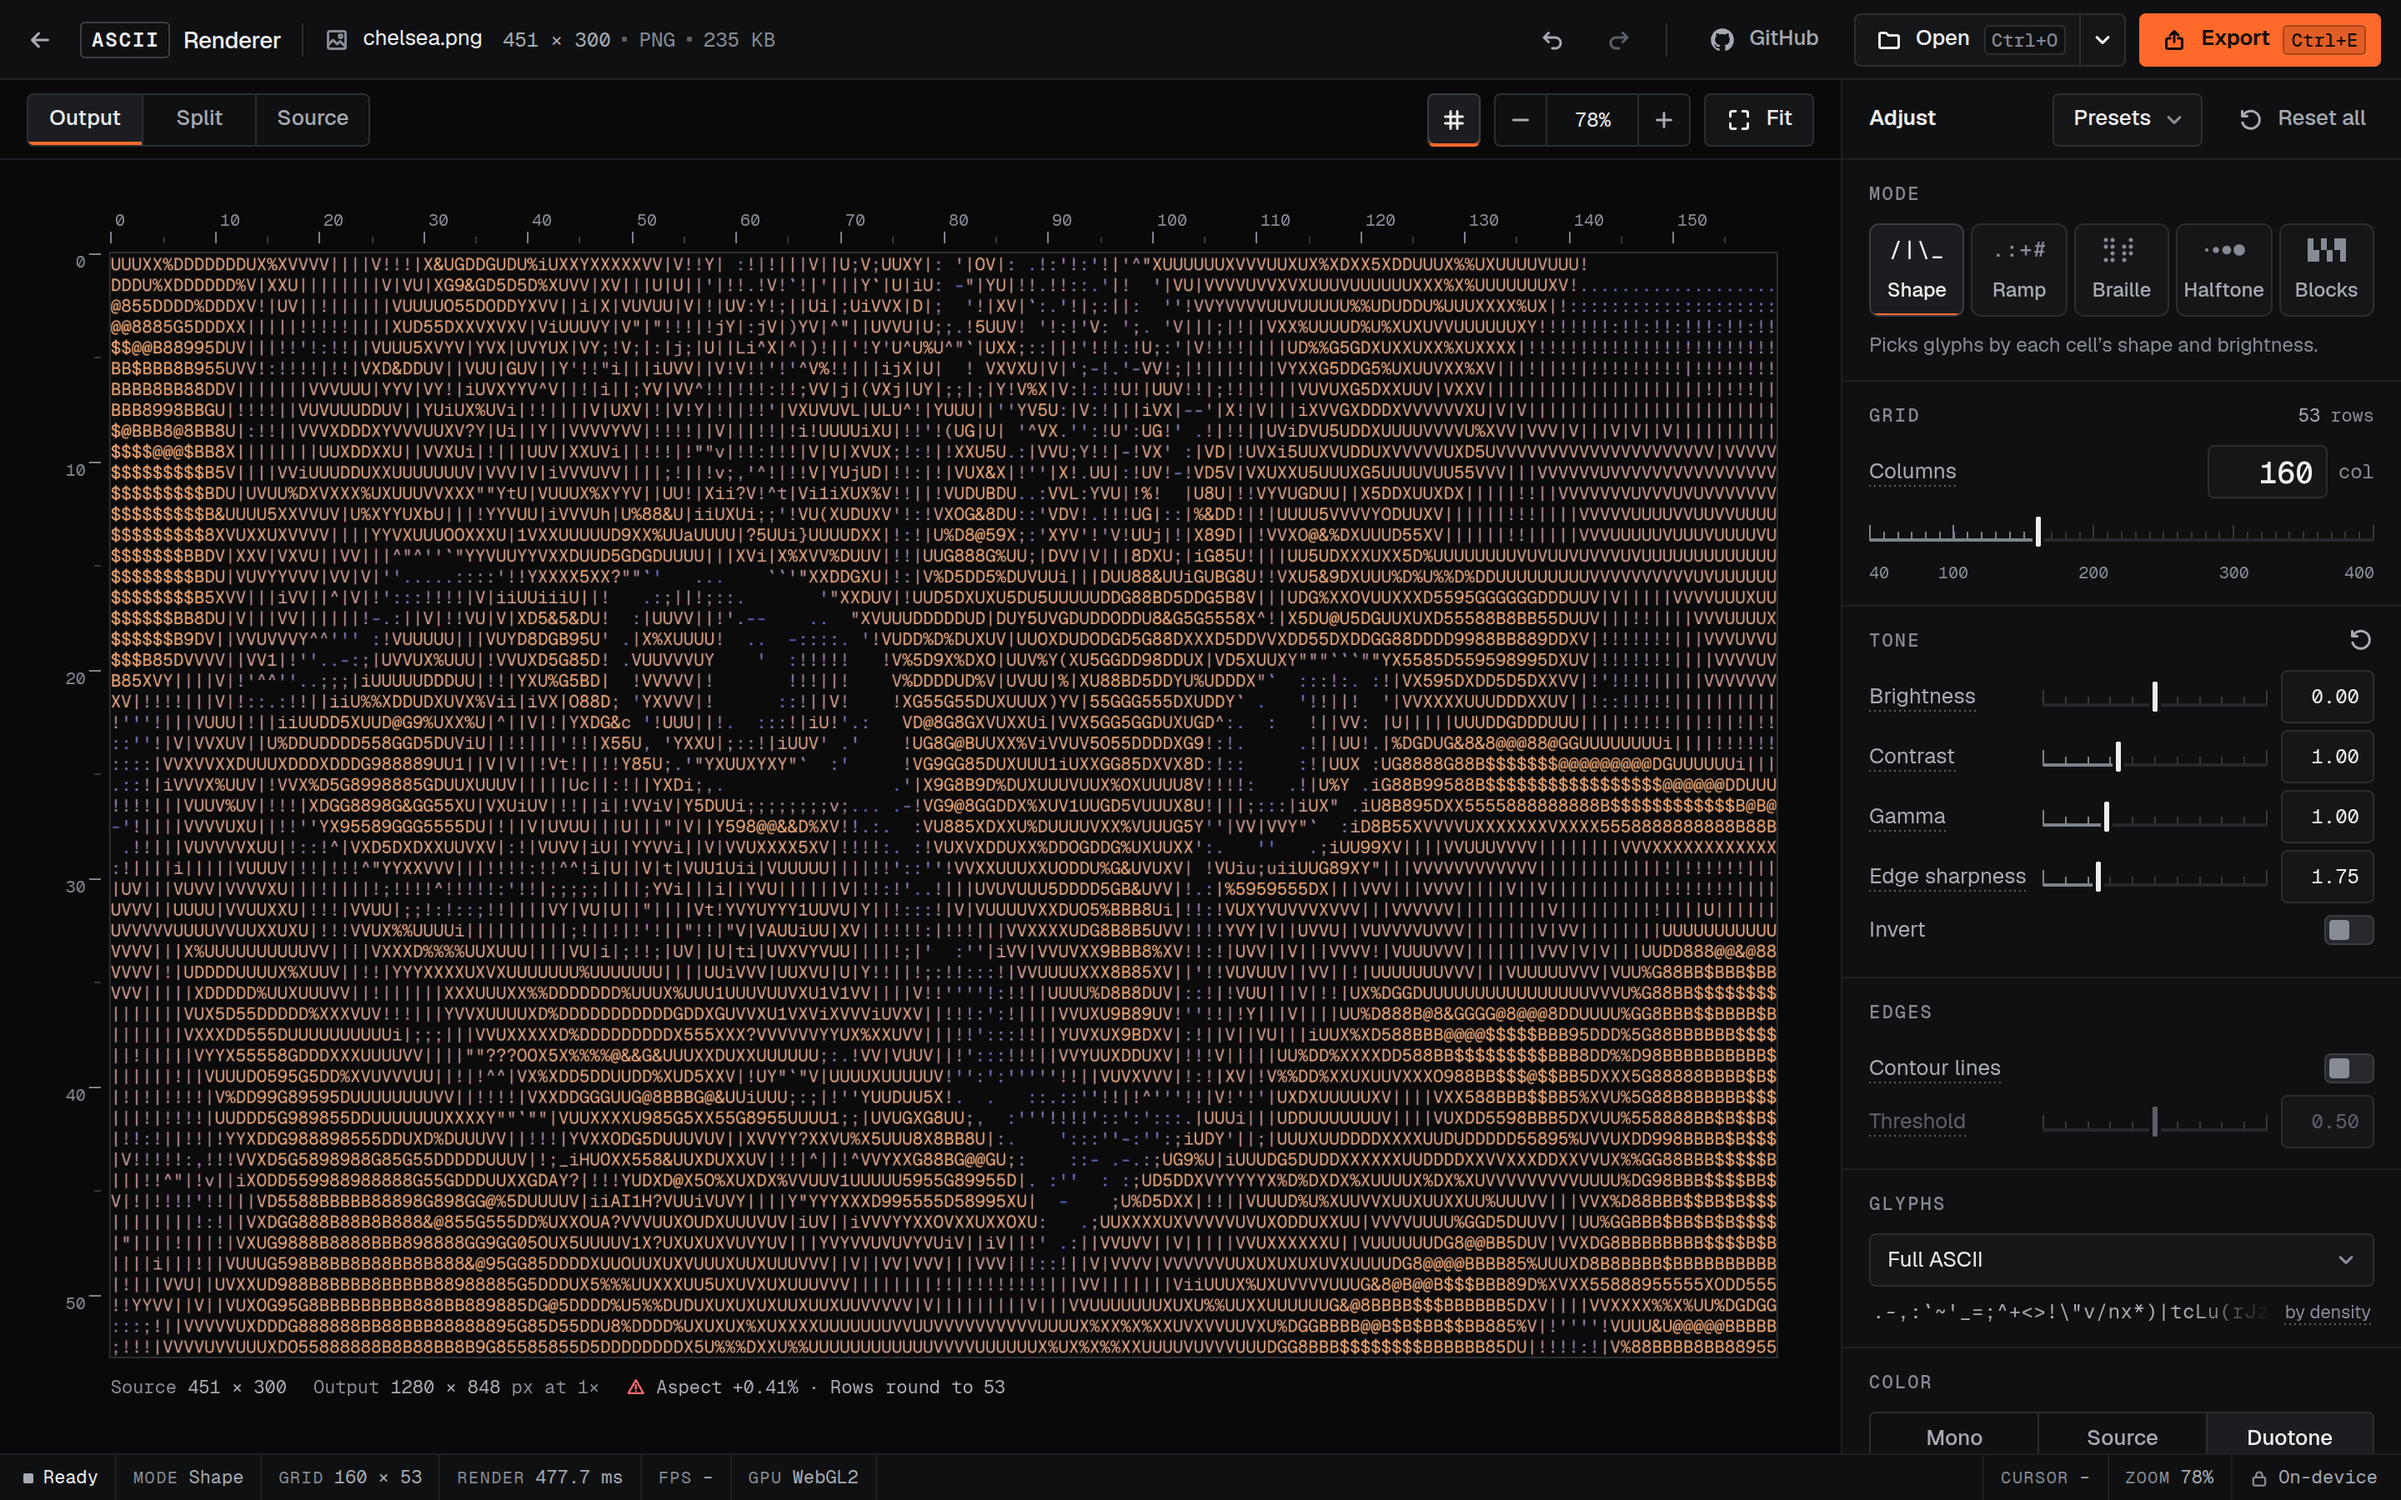
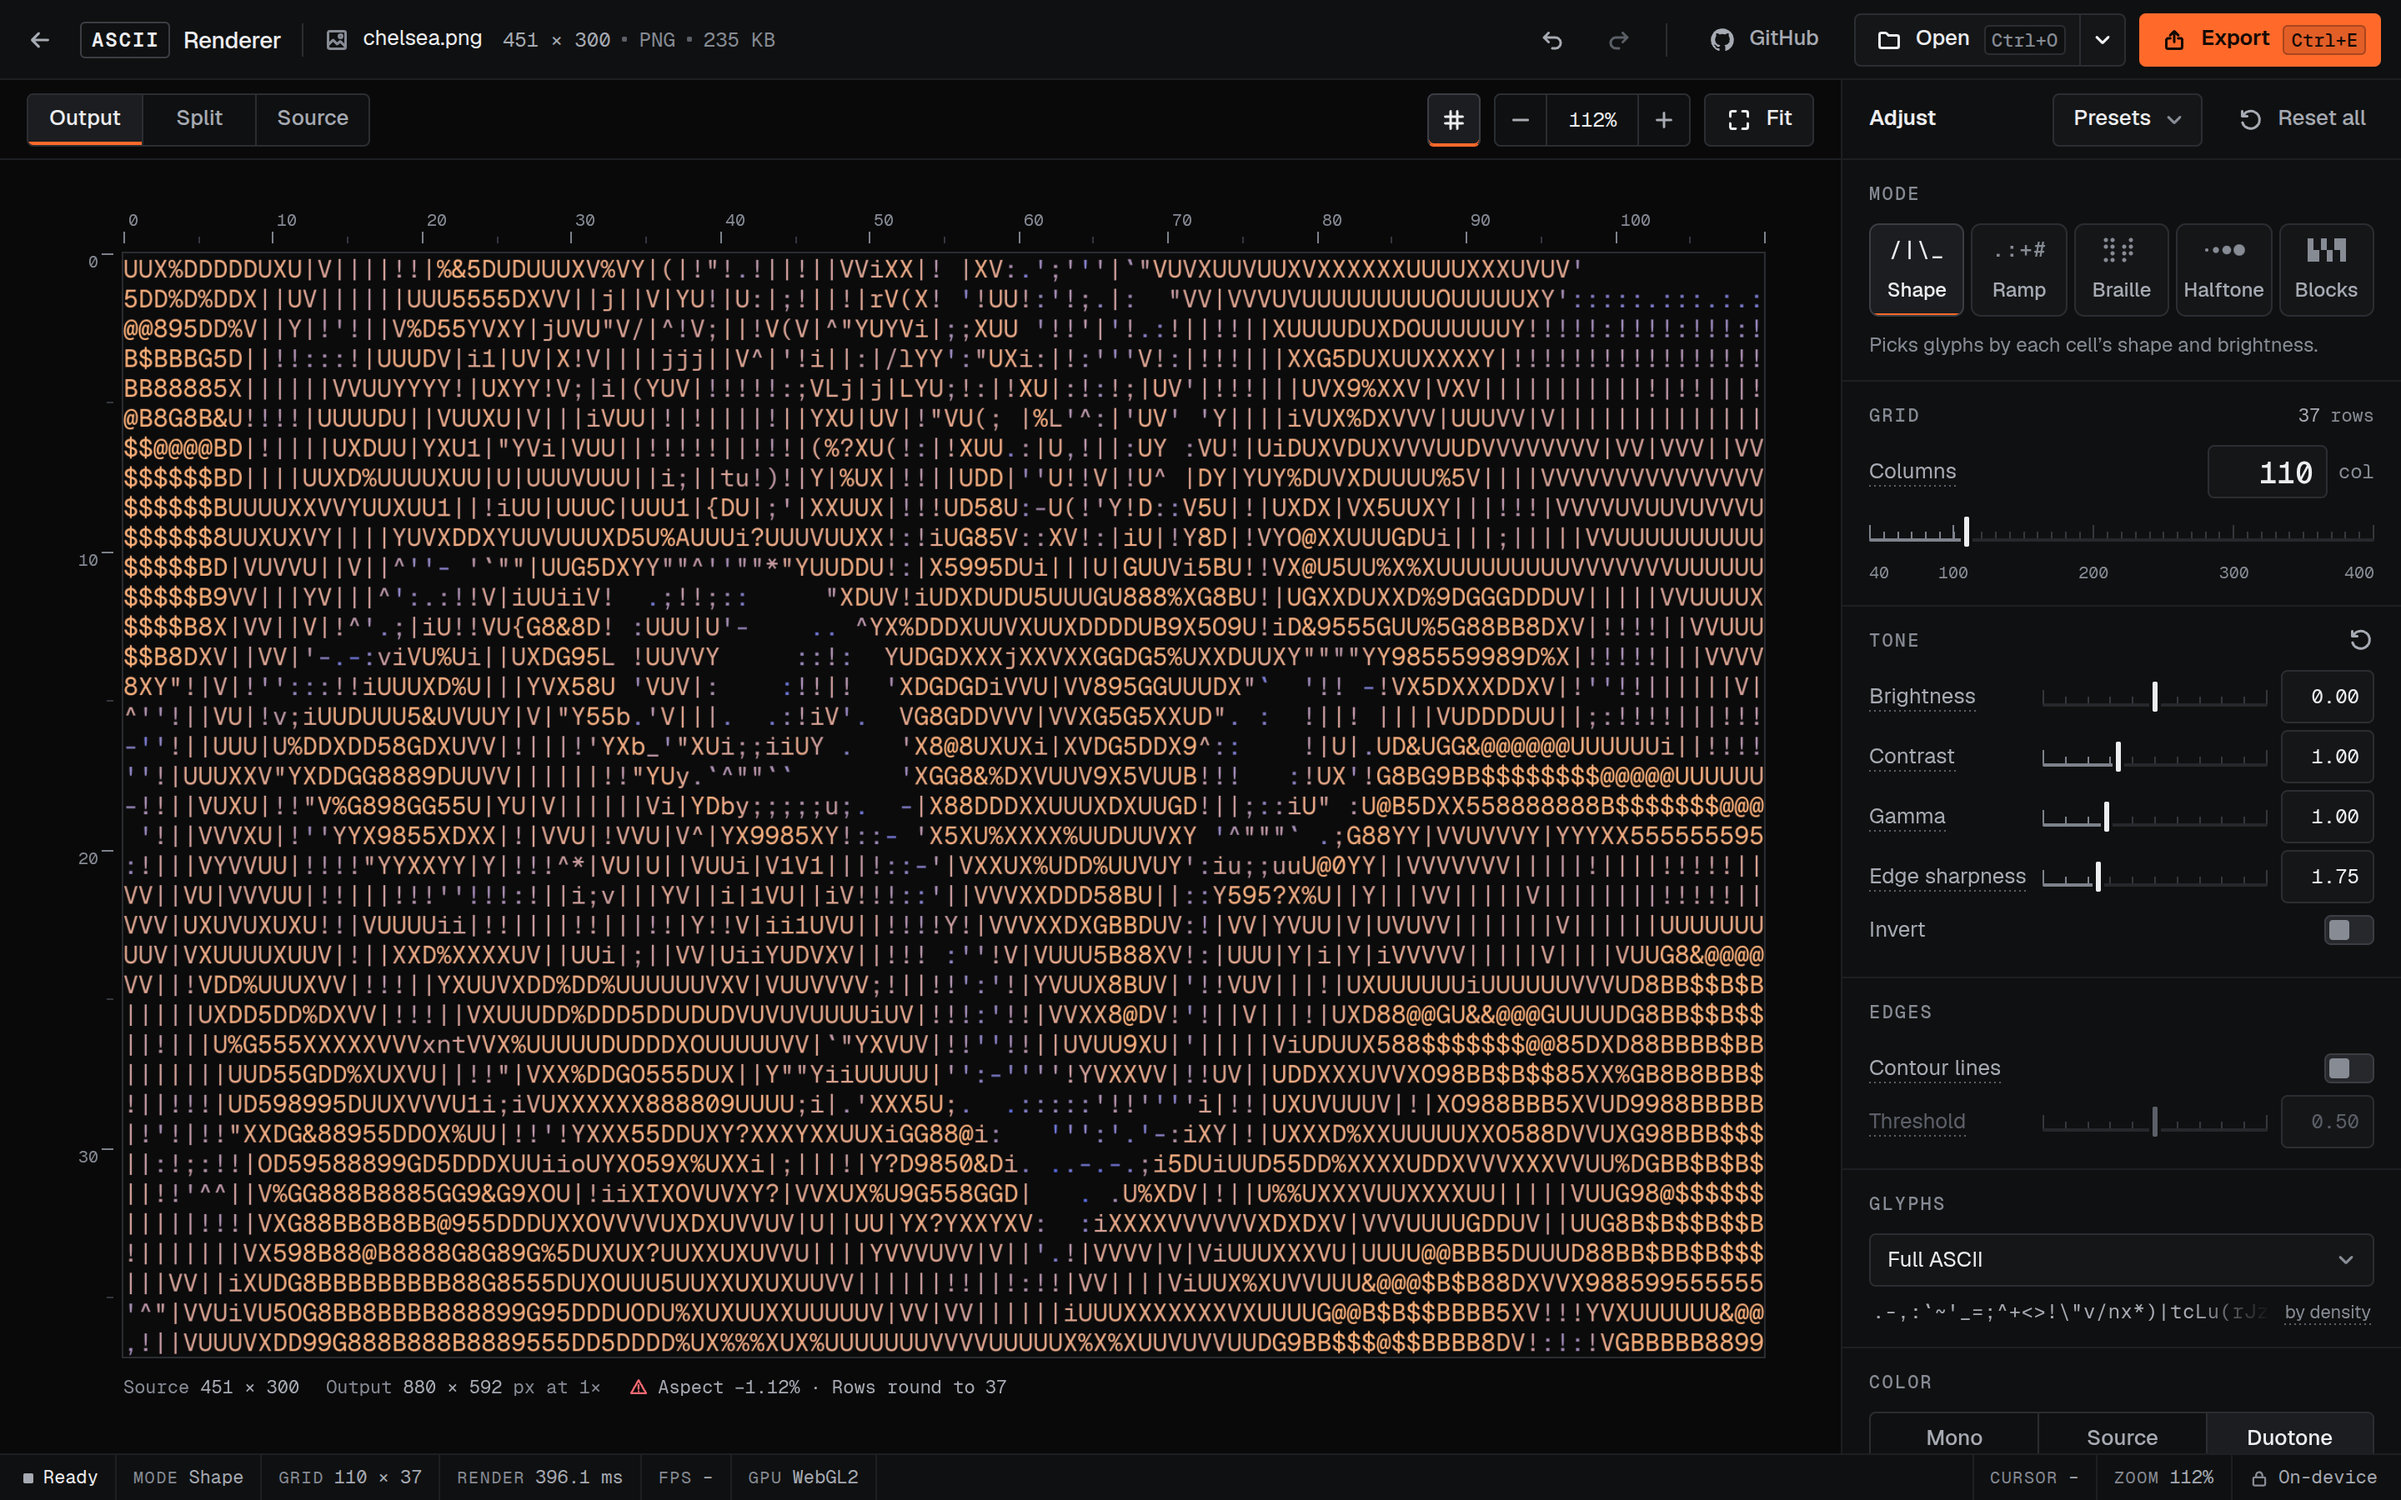
Recapture the colour theme screenshots at 110 columns
Claude-Session: https://claude.ai/code/session_01HHMhdRCXwT8wqUqbYuVJnP

diff --git a/case-study/README.md b/case-study/README.md
@@ -67,6 +67,6 @@ The video sample was transcoded to WebM for capture, because the test browser ca
   - `shortcuts-sheet.png`: the keyboard shortcuts sheet, recaptured with nothing focused and cropped above the status bar.
   - `cell-probe.png`: hovering over a cell on the torus's top edge (column 98, row 6, `_`, brightness 0.38).
   - `split-view-source.png`: `new-03-split-vs-source.png` cropped above the status bar.
-  - `colour-mono-cat.png`, `colour-source-cat.png`, `colour-duotone-cat.png`: the full editor with a cat photo in Shape mode, in Mono, Source and Duotone (blue shadow ink, orange ink). The photo is "Chelsea" from scikit-image's sample data, CC0 by Stefan van der Walt.
+  - `colour-mono-cat.png`, `colour-source-cat.png`, `colour-duotone-cat.png`: the full editor with a cat photo in Shape mode at 110 columns, in Mono, Source and Duotone (blue shadow ink, orange ink). The photo is "Chelsea" from scikit-image's sample data, CC0 by Stefan van der Walt.
   - `colour-themes-halftone.png`: the planet sample in Halftone, in Mono, in Mono with dark ink on light paper (inverted), and in Duotone with blue shadows and orange highlights. The bundled samples are greyscale, so Source colour isn't shown.
 - The cover is the Shape-mode animation export, as `cover.webm`, an H.264 `cover.mp4` for Safari, and `cover-poster.jpg`.
